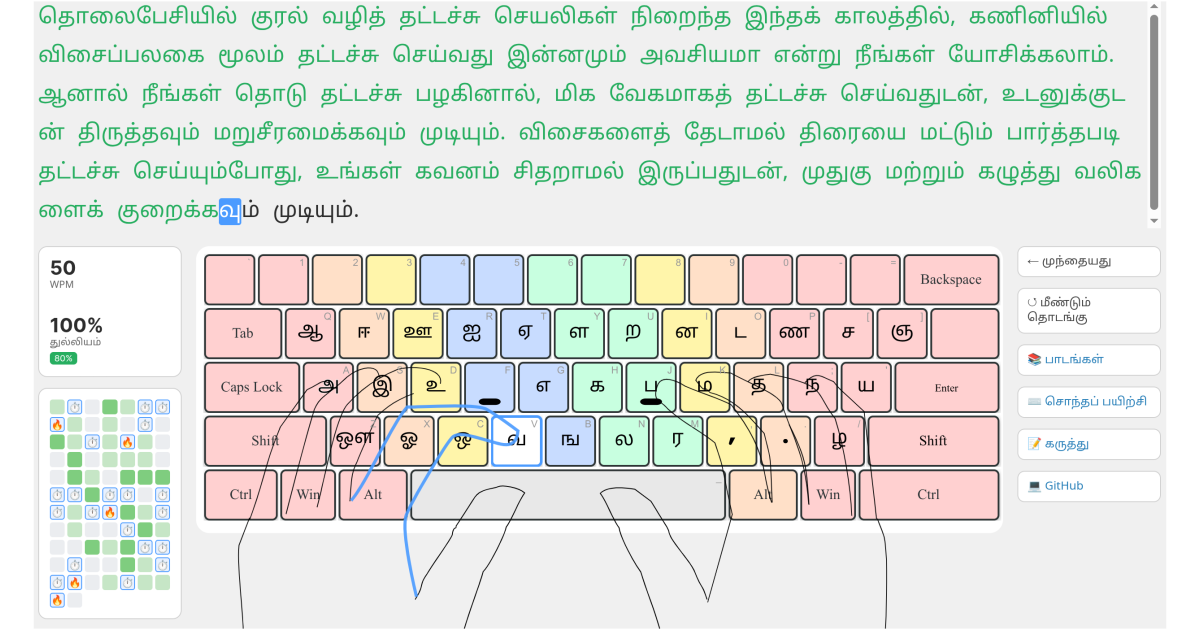
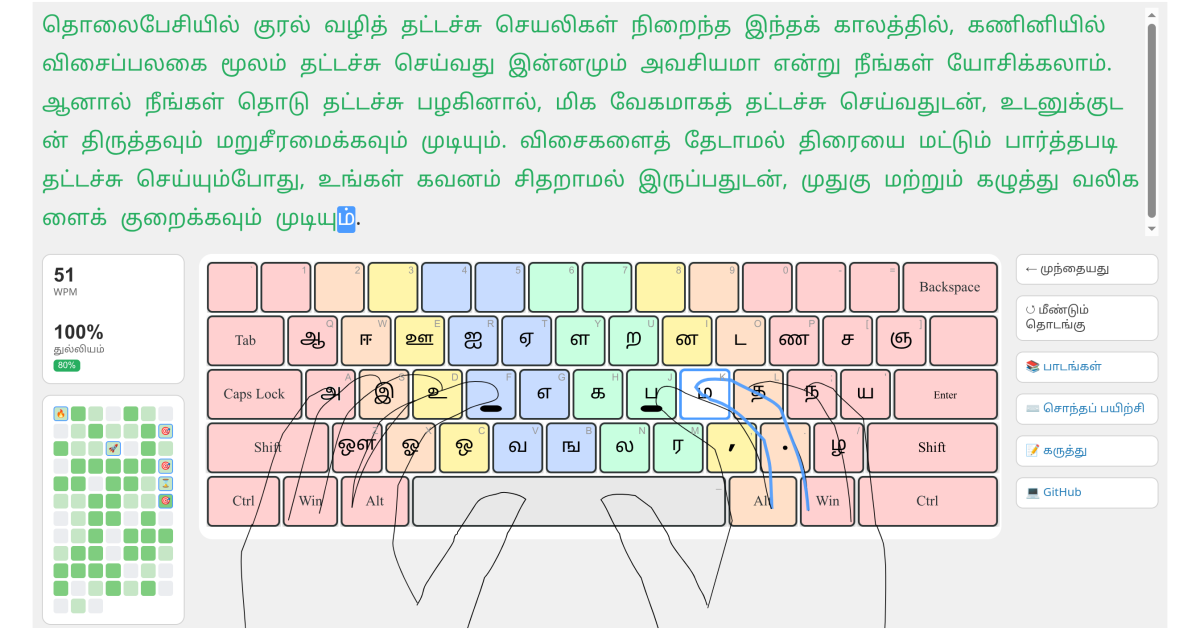
Update version and preview

diff --git a/js/version.js b/js/version.js
@@ -55,7 +55,7 @@ function renderFooter() {
   wrap.innerHTML = `
     <div style="display:flex;flex-direction:column;align-items:center;gap:4px;text-align:center;padding:8px 0;">
       <div style="font-size:12px;color:#888;">🔒 100% Offline &amp; Private</div>
-      <div style="font-size:11px;color:#aaa;">v1.5.13 (18 Aug 2026)</div>
+      <div style="font-size:11px;color:#aaa;">v1.6.14 (19 Aug 2026)</div>
     </div>
   `;
 }
@@ -69,4 +69,4 @@ if (document.readyState === 'loading') {
 
 // Self-register
 window.ELUTHU_VERSIONS = window.ELUTHU_VERSIONS || {};
-window.ELUTHU_VERSIONS['version.js'] = '1.5.13';
+window.ELUTHU_VERSIONS['version.js'] = '1.6.14';

diff --git a/TESTS.md b/TESTS.md
@@ -4,14 +4,14 @@
 ## File Versions
 | File | Version |
 |---|---|
-| index.html | 1.1.3 |
-| style.css | 1.3.3 |
+| index.html | 1.1.5 |
+| style.css | 1.4.2 |
 | tamil99-keymap.json | 1.0.0 |
 | tamil99.js | 1.0.0 |
-| combination.js | 1.1.7 |
-| typing.js | 1.0.0 |
+| combination.js | 1.1.8 |
+| typing.js | 1.0.1 |
 | lessons.js | 1.0.0 |
-| app.js | 1.4.2 |
+| app.js | 1.6.4 |
 | version.js | 1.5.13 |
 | tamil99-tester.html | 1.0.0 |
 ---
